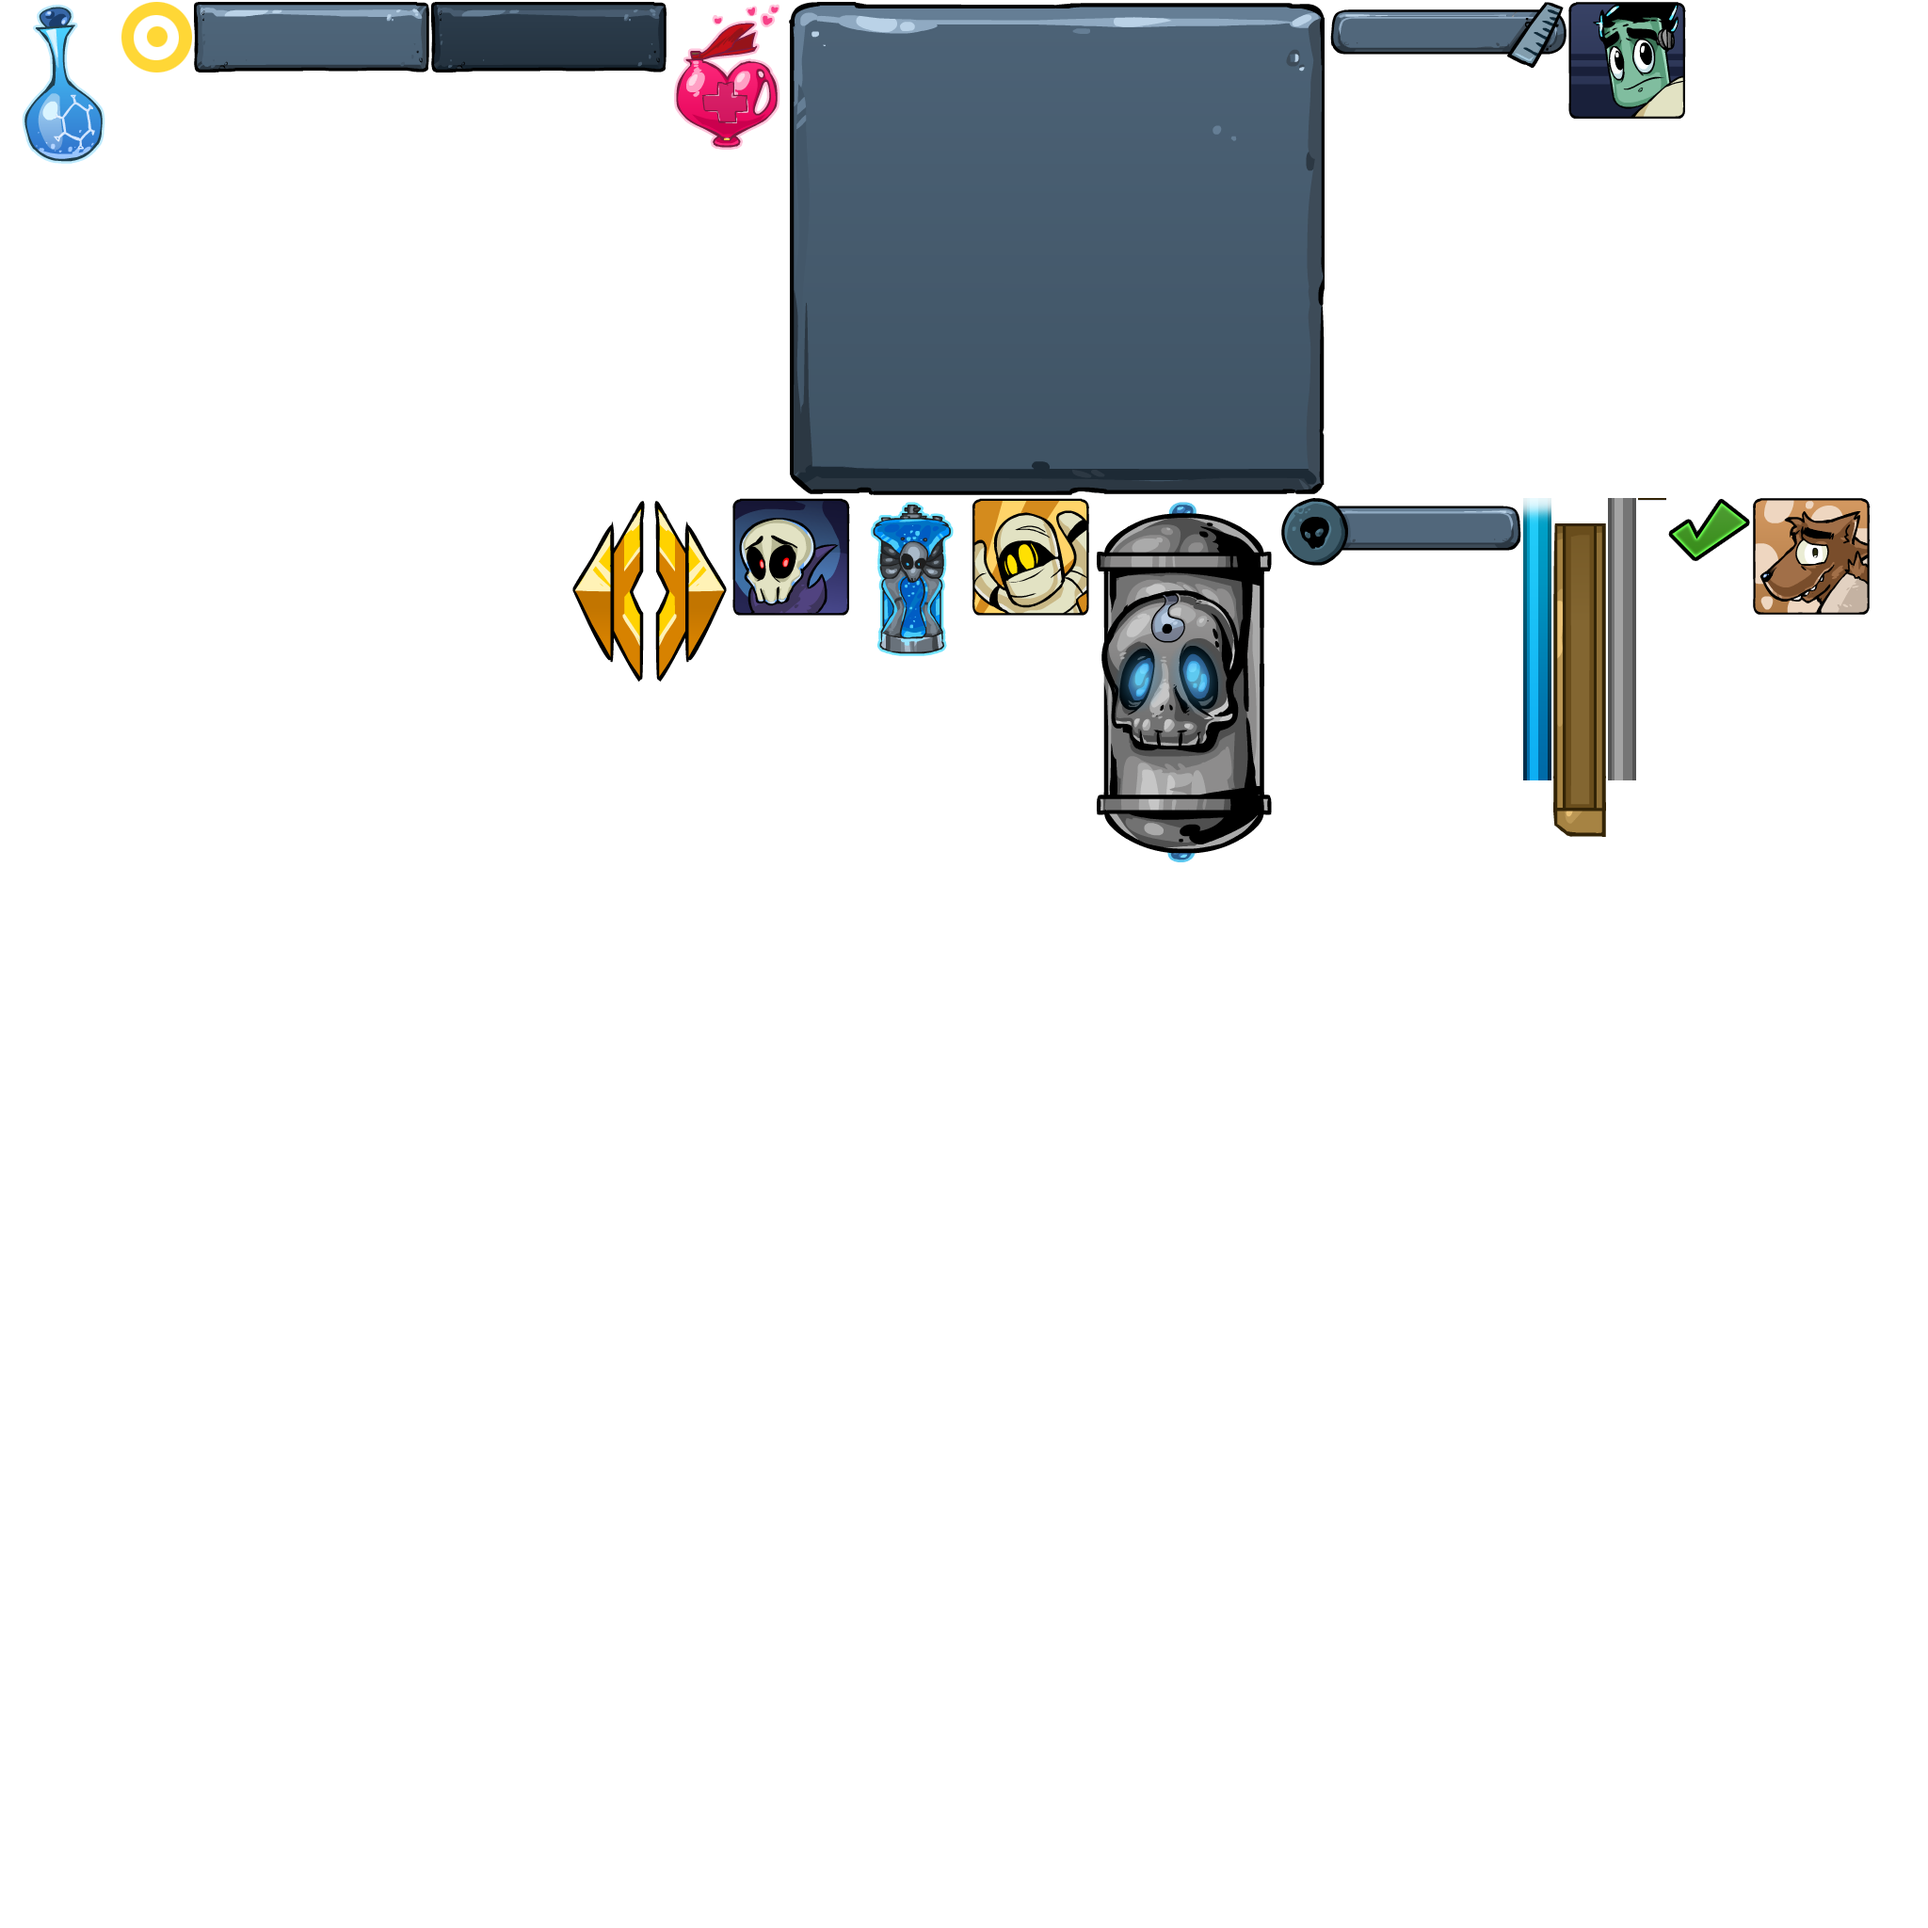
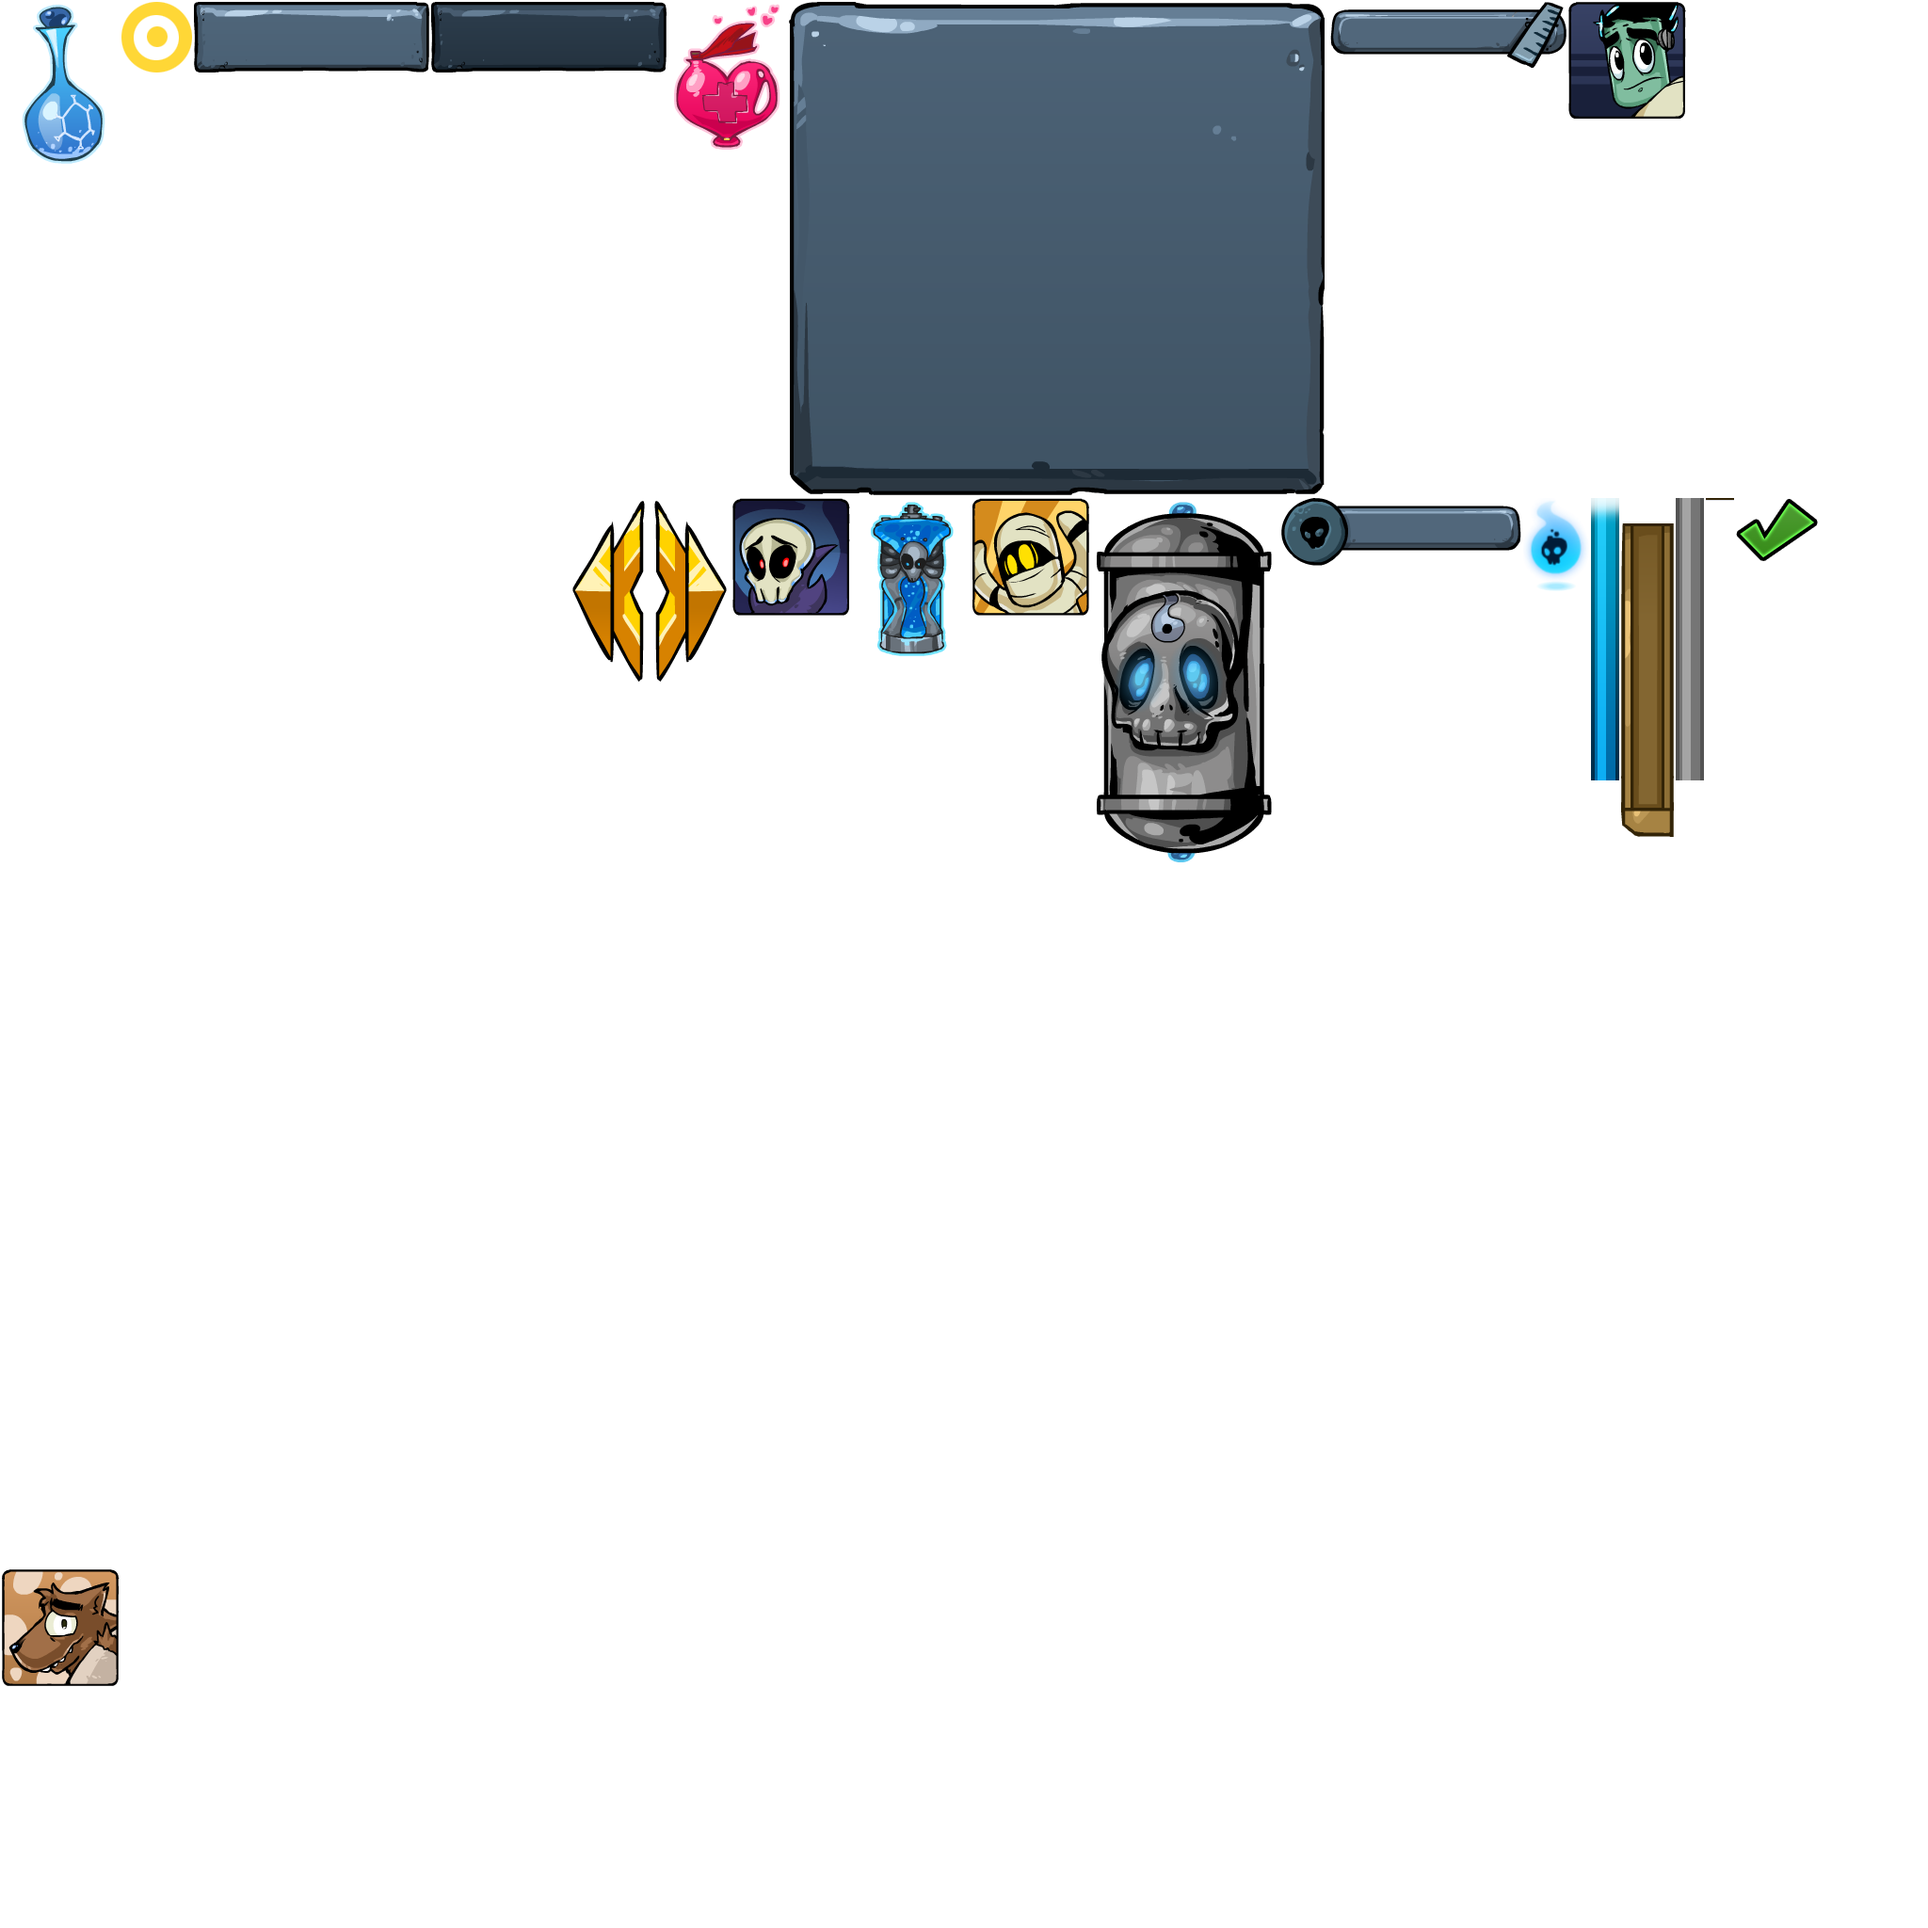
AngryMob

Changed region(s): [[0.7812, 0.25, 0.9688, 0.4375], [0.0, 0.8125, 0.0625, 0.875]]

diff --git a/AngryMob/src/Layers/Game/GameObjectsLayer.js b/AngryMob/src/Layers/Game/GameObjectsLayer.js
@@ -95,7 +95,7 @@ var GameObjectsLayer = cc.Layer.extend({
     // Creates an array of only the powersup the player can use.
     var powerupMemory = Memory.get('powerups');
 
-    for (var powerupMemIndex = 0; powerupMemIndex < powerupMemory; powerupMemIndex++) {
+    for (var powerupMemIndex = 0; powerupMemIndex < powerupMemory.length; powerupMemIndex++) {
       if (powerupMemory[powerupMemIndex] === G.OWNED) {
         this.availablePowerups.push(powerupMemIndex);
       }
@@ -110,8 +110,6 @@ var GameObjectsLayer = cc.Layer.extend({
         this.batch.addChild(this.gameScene.powerups[typeIndex][poolIndex]);
       }
     }
-
-    this.gameScene.powerups[0][0].activate(200, 0);
   },
 
   /**
@@ -304,7 +302,7 @@ var GameObjectsLayer = cc.Layer.extend({
       var segmentData = G.SEGMENTS[this.getSegmentIndex()];
       var obstacles = segmentData.obstacles;
       var souls = segmentData.souls;
-      var powerups = segmentData.powerups;
+      var powerup = segmentData.powerup;
 
       if (obstacles) {
           for (var obstacleIndex = 0; obstacleIndex < obstacles.length; obstacleIndex++) {
@@ -323,12 +321,9 @@ var GameObjectsLayer = cc.Layer.extend({
           }
       }
 
-      if (powerups) {
-        for (var powerupIndex = 0; powerupIndex < powerups.length; powerupIndex++) {
-          var pItem = powerups[i];
-          var powerup = this.getPowerup(pItem.type);
-          powerup.activate(pItem.x, pItem.y);
-        }
+      if (powerup) {
+          var powerupItem = this.getPowerup(this.getPowerupType());
+          powerupItem.activate(powerup.x, powerup.y);
       }
   },
 
@@ -352,7 +347,7 @@ var GameObjectsLayer = cc.Layer.extend({
   },
 
   getPowerupType: function() {
-    var index = Math.randomBetween(0, this.availablePowerups.length);
+    var index = Math.randomBetween(0, this.availablePowerups.length - 1);
 
     return this.availablePowerups[index];
   },

diff --git a/AngryMob/src/Scenes/GameScene.js b/AngryMob/src/Scenes/GameScene.js
@@ -32,9 +32,10 @@ var GameScene = cc.Scene.extend({
   },
 
   init: function() {
-
+      G.SEGMENTS = G.SEGMENTS.slice(13);
     // The order of the methods being called here is important. Some use properties set by others.
     this.runGeneralSetup();
+    this.preloadAssets();
     this.initializeActions();
     this.instantiateLayers();
 
@@ -57,6 +58,10 @@ var GameScene = cc.Scene.extend({
     this.pauseGame();
   },
 
+  onExit: function() {
+      cc.spriteFrameCache.removeSpriteFramesFromFile(res['world_' + this.worldType + '_plist']);
+  },
+
   /**
    * Sets general properties in the scene.
    */
@@ -71,6 +76,10 @@ var GameScene = cc.Scene.extend({
     this.currentDistanceTravelled = 0;
     this.currentSegmentDistanceTravelled = 0;
     this.currentSoulCount = 0;
+  },
+
+  preloadAssets: function() {
+      cc.spriteFrameCache.addSpriteFrames(res['world_' + this.worldType + '_plist'], res['world_' + this.worldType + '_png']);
   },
 
   /**

diff --git a/AngryMob/src/UI/PurchaseDialog.js b/AngryMob/src/UI/PurchaseDialog.js
@@ -42,7 +42,7 @@ var PurchaseDialog = ConfirmDialog.extend({
     this.dialogPrice.strokeStyle = cc.color.BLACK;
     this.dialogPrice.lineWidth = 3;
 
-    this.soulIcon = new cc.Sprite('#soul_0.png');
+    this.soulIcon = new cc.Sprite('#soul_icon.png');
     this.soulIcon.setPosition(460, 170);
 
     this.dialogWindow.addChild(this.dialogImage);
@@ -50,6 +50,7 @@ var PurchaseDialog = ConfirmDialog.extend({
     this.dialogWindow.addChild(this.dialogDescription);
     this.dialogWindow.addChild(this.dialogPrice);
     this.dialogWindow.addChild(this.soulIcon);
+
 
     if (this.cantAfford()) {
       this.confirmButton.enabled = false;

diff --git a/AngryMob/main.js b/AngryMob/main.js
@@ -15,9 +15,7 @@ cc.game.run();
 function pregame() {
     Memory.load();
 
-    // TODO: Delete this functionality later and replace it's functionality before each level starts
     cc.spriteFrameCache.addSpriteFrames(res.ui_plist, res.ui_png);
     cc.spriteFrameCache.addSpriteFrames(res.main_menu_plist, res.main_menu_png);
     cc.spriteFrameCache.addSpriteFrames(res.lab_plist, res.lab_png);
-    cc.spriteFrameCache.addSpriteFrames(res.world_3_plist, res.world_3_png);
 }

diff --git a/AngryMob/src/Layers/Menu/MenuBackgroundLayer.js b/AngryMob/src/Layers/Menu/MenuBackgroundLayer.js
@@ -28,7 +28,7 @@ var MenuBackgroundLayer = cc.Layer.extend({
   },
 
   drawTitle: function() {
-    this.titleAppearAnimation = cc.sequence(cc.delayTime(1), cc.scaleTo(0.3, 1.3), cc.scaleTo(0.2, 0.8), cc.scaleTo(0.2, 1));
+    this.titleAppearAnimation = cc.sequence(cc.scaleTo(0.3, 1.3), cc.scaleTo(0.2, 0.8), cc.scaleTo(0.2, 1));
 
     this.title = new cc.Sprite('#main_menu_title.png');
     this.title.setPosition(320, 890);
